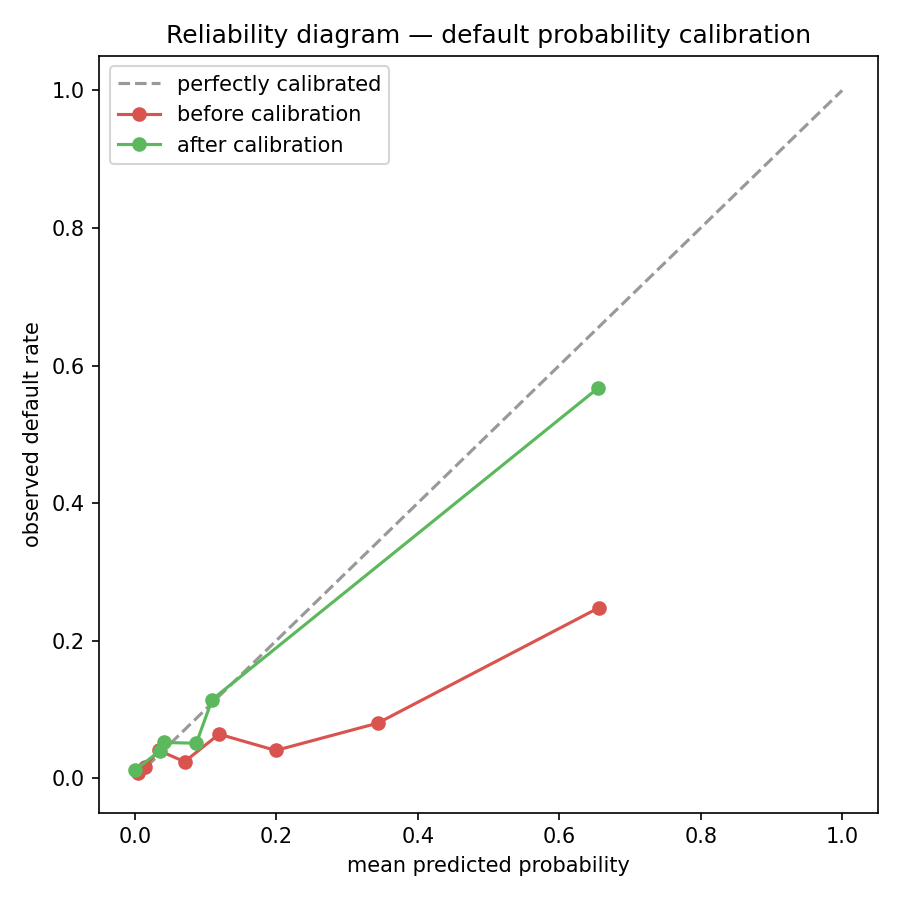
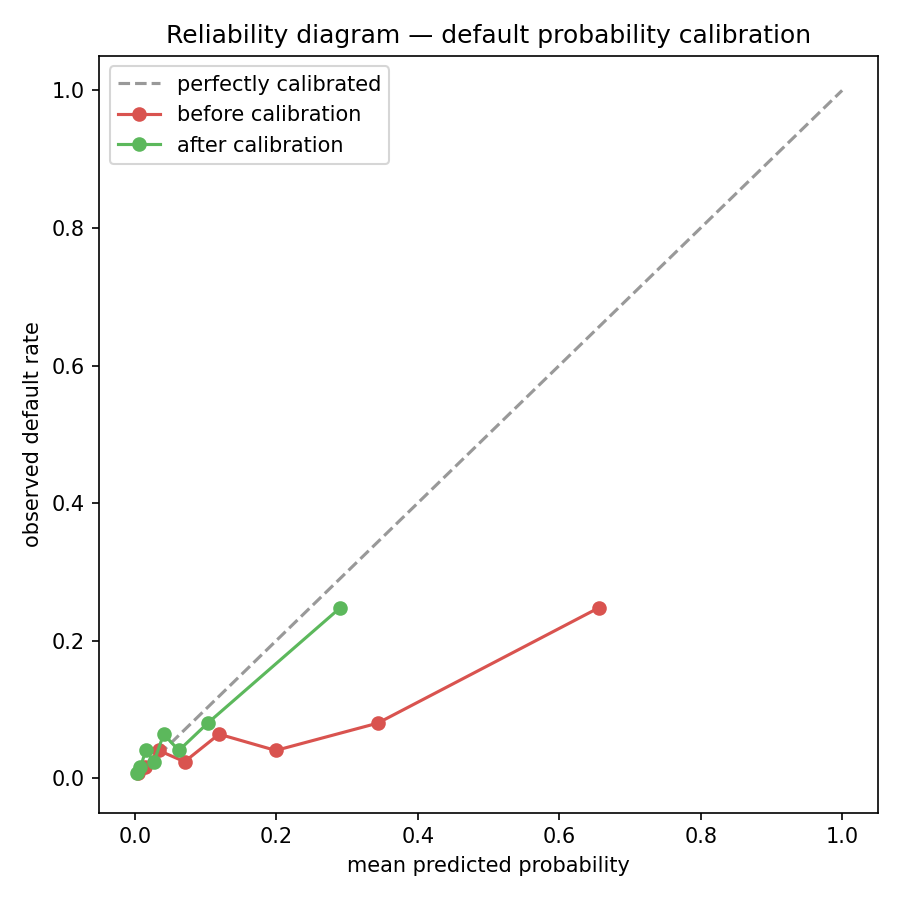
Add scenario simulation and fix a cross-module pickle bug in the calibrator
simulate.py shocks an exogenous origination-time driver (interest rate,
DTI, regional income) across the full portfolio, recomputes the features
that mechanically depend on it (loan-to-income ratio, peer-cohort
z-scores -- against the *original* train-cohort stats, not refit on the
shocked population, so a shocked loan reads as unusual against a normal
benchmark instead of quietly moving the benchmark), rescores with the
calibrated XGBoost model, and reports the portfolio-level shift plus the
most-affected loans. Each run is logged to the audit hash chain.

Along the way: moved PlattCalibrator/IsotonicCalibrator out of calibrate.py
into calibrators.py. Classes defined in a module run via `python -m` get
pickled with module="__main__", so joblib.load(calibrator.joblib) from any
other entry point (like this new scenario module) couldn't find the class.
Also switched the default calibration method from isotonic to Platt:
isotonic scored marginally better on Brier (0.044 vs 0.046) but its ~600
row calibration holdout only supports a ~19-step function, and a shock
landing near a step boundary produced probability jumps of 0.3+ that read
as instability rather than a real risk signal. Platt's smooth sigmoid
removes that artifact for a negligible calibration cost.

diff --git a/loan_intelligence/scenario/simulate.py b/loan_intelligence/scenario/simulate.py
@@ -1,0 +1,175 @@
+"""Scenario simulation: shock a feature across the portfolio and see how the
+calibrated default probability shifts.
+
+Scope of the counterfactual: a shock changes an exogenous origination-time
+driver (interest rate, borrower income, DTI). Features that mechanically
+derive from it (loan_to_income_ratio, the peer-cohort z-scores) are
+recomputed; the observed payment-history features (rolling delinquency
+rate, DTI trend, payment volatility, ...) are held fixed, because this tool
+asks "how does the model's risk assessment change under this new
+origination condition", not "how would twelve months of payment history
+have played out differently" -- re-simulating counterfactual payment
+behavior is a much bigger modeling problem and out of scope here.
+
+Peer-cohort z-scores are recomputed against the *original* (pre-shock)
+train-cohort mean/std from feature_fit_params.json, not refit on the
+shocked population -- refitting would silently absorb the shock into the
+benchmark and mask exactly the effect we're trying to show (a shocked loan
+should look unusual relative to the normal population, not relative to a
+population that's now shocked too).
+
+Run directly, e.g.:
+    python -m loan_intelligence.scenario.simulate --shock interest_rate --magnitude 2.0
+    python -m loan_intelligence.scenario.simulate --shock regional_income --region South --magnitude -15
+    python -m loan_intelligence.scenario.simulate --shock dti --magnitude 0.15
+"""
+from __future__ import annotations
+
+import argparse
+import json
+from pathlib import Path
+
+import joblib
+import matplotlib
+matplotlib.use("Agg")
+import matplotlib.pyplot as plt
+import numpy as np
+import pandas as pd
+import xgboost as xgb
+
+from loan_intelligence.audit.hash_chain import AuditTrail
+from loan_intelligence.models.predict import _as_xgb_frame
+
+BASE_DIR = Path(__file__).resolve().parents[2]
+OUTPUT_DIR = BASE_DIR / "outputs"
+MODEL_DIR = OUTPUT_DIR / "models"
+REPORT_DIR = BASE_DIR / "reports"
+
+SHOCK_TYPES = ("interest_rate", "dti", "regional_income")
+
+
+def apply_shock(df: pd.DataFrame, shock_type: str, magnitude: float, fit_params: dict, region: str | None = None) -> pd.DataFrame:
+    df = df.copy()
+
+    if shock_type == "interest_rate":
+        df["interest_rate"] = (df["interest_rate"] + magnitude).clip(lower=0.1)
+    elif shock_type == "dti":
+        df["dti_at_origination"] = (df["dti_at_origination"] + magnitude).clip(0.02, 0.95)
+    elif shock_type == "regional_income":
+        mask = (df["region"] == region) if region else pd.Series(True, index=df.index)
+        df.loc[mask, "borrower_income_at_origination"] = df.loc[mask, "borrower_income_at_origination"] * (1 + magnitude / 100.0)
+    else:
+        raise ValueError(f"unknown shock_type {shock_type!r}, expected one of {SHOCK_TYPES}")
+
+    df["loan_to_income_ratio"] = df["loan_amount"] / df["borrower_income_at_origination"].replace(0, np.nan)
+
+    for col in ["dti_at_origination", "credit_score_at_origination"]:
+        stats = fit_params["cohort_stats"][col]
+        means = df["loan_type"].map(lambda t: stats[t]["mean"])
+        stds = df["loan_type"].map(lambda t: stats[t]["std"]).replace(0, np.nan)
+        df[f"{col}_peer_zscore"] = ((df[col] - means) / stds).fillna(0.0)
+
+    return df
+
+
+def _load_portfolio() -> pd.DataFrame:
+    train_df = pd.read_csv(OUTPUT_DIR / "train.csv")
+    test_df = pd.read_csv(OUTPUT_DIR / "test.csv")
+    return pd.concat([train_df, test_df], ignore_index=True)
+
+
+def _predict(model: xgb.XGBClassifier, calibrator, df: pd.DataFrame, feature_cols: list[str]) -> np.ndarray:
+    raw = model.predict_proba(_as_xgb_frame(df, feature_cols))[:, 1]
+    return calibrator.predict(raw)
+
+
+def run_scenario(shock_type: str, magnitude: float, region: str | None = None, top_n: int = 10) -> dict:
+    portfolio = _load_portfolio()
+    fit_params = json.load(open(OUTPUT_DIR / "feature_fit_params.json"))
+    feature_cols = joblib.load(MODEL_DIR / "xgboost_feature_cols.joblib")
+
+    model = xgb.XGBClassifier()
+    model.load_model(MODEL_DIR / "xgboost_model.json")
+    calibrator = joblib.load(MODEL_DIR / "calibrator.joblib")
+
+    proba_before = _predict(model, calibrator, portfolio, feature_cols)
+    shocked = apply_shock(portfolio, shock_type, magnitude, fit_params, region=region)
+    proba_after = _predict(model, calibrator, shocked, feature_cols)
+
+    result_df = portfolio[["loan_id", "region", "loan_type"]].copy()
+    result_df["proba_before"] = proba_before
+    result_df["proba_after"] = proba_after
+    result_df["delta"] = proba_after - proba_before
+
+    summary = {
+        "shock_type": shock_type,
+        "magnitude": magnitude,
+        "region": region,
+        "n_loans_in_scope": len(portfolio),
+        "portfolio_mean_proba_before": round(float(proba_before.mean()), 4),
+        "portfolio_mean_proba_after": round(float(proba_after.mean()), 4),
+        "mean_delta": round(float((proba_after - proba_before).mean()), 4),
+        "n_newly_high_risk_over_0.5": int(((proba_before < 0.5) & (proba_after >= 0.5)).sum()),
+        "top_movers": result_df.sort_values("delta", ascending=False).head(top_n)[
+            ["loan_id", "region", "loan_type", "proba_before", "proba_after", "delta"]
+        ].to_dict(orient="records"),
+    }
+    return summary, result_df, proba_before, proba_after
+
+
+def plot_shift(proba_before: np.ndarray, proba_after: np.ndarray, title: str, out_path: Path) -> None:
+    fig, ax = plt.subplots(figsize=(7, 5))
+    bins = np.linspace(0, 1, 40)
+    ax.hist(proba_before, bins=bins, alpha=0.55, label="before shock", color="#5b8def")
+    ax.hist(proba_after, bins=bins, alpha=0.55, label="after shock", color="#e0685a")
+    ax.set_xlabel("calibrated default probability")
+    ax.set_ylabel("number of loans")
+    ax.set_title(title)
+    ax.legend()
+    fig.tight_layout()
+    out_path.parent.mkdir(parents=True, exist_ok=True)
+    fig.savefig(out_path, dpi=150)
+    plt.close(fig)
+
+
+def main() -> None:
+    parser = argparse.ArgumentParser(description="Shock a portfolio feature and see how default probability shifts.")
+    parser.add_argument("--shock", choices=SHOCK_TYPES, required=True)
+    parser.add_argument("--magnitude", type=float, required=True, help="+2.0 = +2pp interest rate; -15 = -15%% income; +0.15 = +0.15 DTI")
+    parser.add_argument("--region", type=str, default=None, help="restrict a regional_income shock to one region")
+    parser.add_argument("--top-n", type=int, default=10)
+    args = parser.parse_args()
+
+    print(f"running scenario: shock={args.shock}, magnitude={args.magnitude}, region={args.region or 'all'}")
+    summary, result_df, proba_before, proba_after = run_scenario(args.shock, args.magnitude, args.region, args.top_n)
+
+    print("\n=== Scenario result (portfolio-level) ===")
+    print(f"  mean probability before: {summary['portfolio_mean_proba_before']:.4f}")
+    print(f"  mean probability after:  {summary['portfolio_mean_proba_after']:.4f}")
+    print(f"  mean shift:              {summary['mean_delta']:+.4f}")
+    print(f"  loans newly crossing 0.5 risk threshold: {summary['n_newly_high_risk_over_0.5']}")
+    print(f"\n  top {args.top_n} most-affected loans:")
+    for row in summary["top_movers"]:
+        print(f"    {row['loan_id']}  ({row['region']}/{row['loan_type']})  {row['proba_before']:.3f} -> {row['proba_after']:.3f}  ({row['delta']:+.3f})")
+
+    tag = f"{args.shock}_{args.magnitude}" + (f"_{args.region}" if args.region else "")
+    plot_path = REPORT_DIR / f"scenario_{tag}.png"
+    plot_shift(proba_before, proba_after, f"Scenario: {args.shock} shock ({args.magnitude:+g})", plot_path)
+
+    result_path = OUTPUT_DIR / f"scenario_result_{tag}.csv"
+    result_df.to_csv(result_path, index=False)
+    summary_path = OUTPUT_DIR / f"scenario_summary_{tag}.json"
+    summary_path.write_text(json.dumps(summary, indent=2), encoding="utf-8")
+
+    AuditTrail().log("scenario_run", None, {
+        "shock_type": args.shock, "magnitude": args.magnitude, "region": args.region,
+        "portfolio_mean_proba_before": summary["portfolio_mean_proba_before"],
+        "portfolio_mean_proba_after": summary["portfolio_mean_proba_after"],
+    })
+
+    print(f"\nwrote {plot_path}, {result_path}, {summary_path}")
+    print("logged scenario run to the audit trail")
+
+
+if __name__ == "__main__":
+    main()

diff --git a/loan_intelligence/models/calibrate.py b/loan_intelligence/models/calibrate.py
@@ -7,6 +7,16 @@ calibrator (Platt / sigmoid, or isotonic regression) and reports Brier
 score before/after plus a reliability diagram, because a reviewer-facing
 probability that isn't actually a probability is worse than not showing one.
 
+Default method is Platt (sigmoid), not isotonic, despite isotonic scoring a
+touch better on this run's Brier score (0.044 vs 0.046) -- the calibration
+holdout is only ~600 loans with ~40 positives, and isotonic regression's
+step function ends up with ~19 plateaus at that sample size. A plateau
+boundary sitting between "before" and "after" a small scenario shock (see
+scenario/simulate.py) makes a probability jump by 0.3+ on a marginal input
+change, which is a calibration-estimation artifact, not a real risk signal.
+Platt's smooth sigmoid degrades that failure mode into a small, monotonic
+shift instead.
+
 Leakage discipline: the calibration mapping is fit on a holdout carved out
 of the *train* split (via the same time-aware split used everywhere else),
 using a freshly-trained XGBoost that never saw that holdout -- never on the
@@ -26,11 +36,10 @@ import matplotlib.pyplot as plt
 import numpy as np
 import pandas as pd
 from sklearn.calibration import calibration_curve
-from sklearn.isotonic import IsotonicRegression
-from sklearn.linear_model import LogisticRegression
 from sklearn.metrics import brier_score_loss
 
 from loan_intelligence.features.time_split import time_aware_split
+from loan_intelligence.models.calibrators import IsotonicCalibrator, PlattCalibrator
 from loan_intelligence.models.predict import get_feature_cols, predict_xgboost, train_xgboost
 
 BASE_DIR = Path(__file__).resolve().parents[2]
@@ -38,35 +47,7 @@ OUTPUT_DIR = BASE_DIR / "outputs"
 REPORT_DIR = BASE_DIR / "reports"
 
 
-class PlattCalibrator:
-    def __init__(self):
-        self.lr = LogisticRegression()
-
-    def fit(self, raw_proba: np.ndarray, y: np.ndarray) -> "PlattCalibrator":
-        eps = 1e-6
-        logit = np.log(np.clip(raw_proba, eps, 1 - eps) / np.clip(1 - raw_proba, eps, 1 - eps)).reshape(-1, 1)
-        self.lr.fit(logit, y)
-        return self
-
-    def predict(self, raw_proba: np.ndarray) -> np.ndarray:
-        eps = 1e-6
-        logit = np.log(np.clip(raw_proba, eps, 1 - eps) / np.clip(1 - raw_proba, eps, 1 - eps)).reshape(-1, 1)
-        return self.lr.predict_proba(logit)[:, 1]
-
-
-class IsotonicCalibrator:
-    def __init__(self):
-        self.iso = IsotonicRegression(out_of_bounds="clip")
-
-    def fit(self, raw_proba: np.ndarray, y: np.ndarray) -> "IsotonicCalibrator":
-        self.iso.fit(raw_proba, y)
-        return self
-
-    def predict(self, raw_proba: np.ndarray) -> np.ndarray:
-        return self.iso.predict(raw_proba)
-
-
-def fit_calibrator(train_df: pd.DataFrame, method: str = "isotonic"):
+def fit_calibrator(train_df: pd.DataFrame, method: str = "platt"):
     calib_fit_df, calib_holdout_df, _ = time_aware_split(train_df, test_size=0.15)
     feature_cols = get_feature_cols(calib_fit_df)
 
@@ -106,7 +87,7 @@ def main() -> None:
     raw_proba_test = predictions_test["xgb_proba"].to_numpy()
 
     print("fitting calibrator on a train-only holdout (never touches test)...")
-    calibrator = fit_calibrator(train_df, method="isotonic")
+    calibrator = fit_calibrator(train_df, method="platt")
     calibrated_proba_test = calibrator.predict(raw_proba_test)
 
     brier_before = brier_score_loss(y_test, raw_proba_test)
@@ -128,7 +109,7 @@ def main() -> None:
     out.to_csv(out_path, index=False)
 
     report = {
-        "method": "isotonic",
+        "method": "platt",
         "brier_before": round(float(brier_before), 4),
         "brier_after": round(float(brier_after), 4),
         "improvement_pct": round(float(improvement), 2),

diff --git a/loan_intelligence/models/calibrators.py b/loan_intelligence/models/calibrators.py
@@ -1,0 +1,37 @@
+"""Calibrator classes, kept in their own importable module (not a __main__
+script) so joblib pickles reference a stable module path -- pickling a class
+defined in whatever module happened to be run as `__main__` makes it
+unloadable from any other entry point."""
+from __future__ import annotations
+
+import numpy as np
+from sklearn.isotonic import IsotonicRegression
+from sklearn.linear_model import LogisticRegression
+
+
+class PlattCalibrator:
+    def __init__(self):
+        self.lr = LogisticRegression()
+
+    def fit(self, raw_proba: np.ndarray, y: np.ndarray) -> "PlattCalibrator":
+        eps = 1e-6
+        logit = np.log(np.clip(raw_proba, eps, 1 - eps) / np.clip(1 - raw_proba, eps, 1 - eps)).reshape(-1, 1)
+        self.lr.fit(logit, y)
+        return self
+
+    def predict(self, raw_proba: np.ndarray) -> np.ndarray:
+        eps = 1e-6
+        logit = np.log(np.clip(raw_proba, eps, 1 - eps) / np.clip(1 - raw_proba, eps, 1 - eps)).reshape(-1, 1)
+        return self.lr.predict_proba(logit)[:, 1]
+
+
+class IsotonicCalibrator:
+    def __init__(self):
+        self.iso = IsotonicRegression(out_of_bounds="clip")
+
+    def fit(self, raw_proba: np.ndarray, y: np.ndarray) -> "IsotonicCalibrator":
+        self.iso.fit(raw_proba, y)
+        return self
+
+    def predict(self, raw_proba: np.ndarray) -> np.ndarray:
+        return self.iso.predict(raw_proba)
